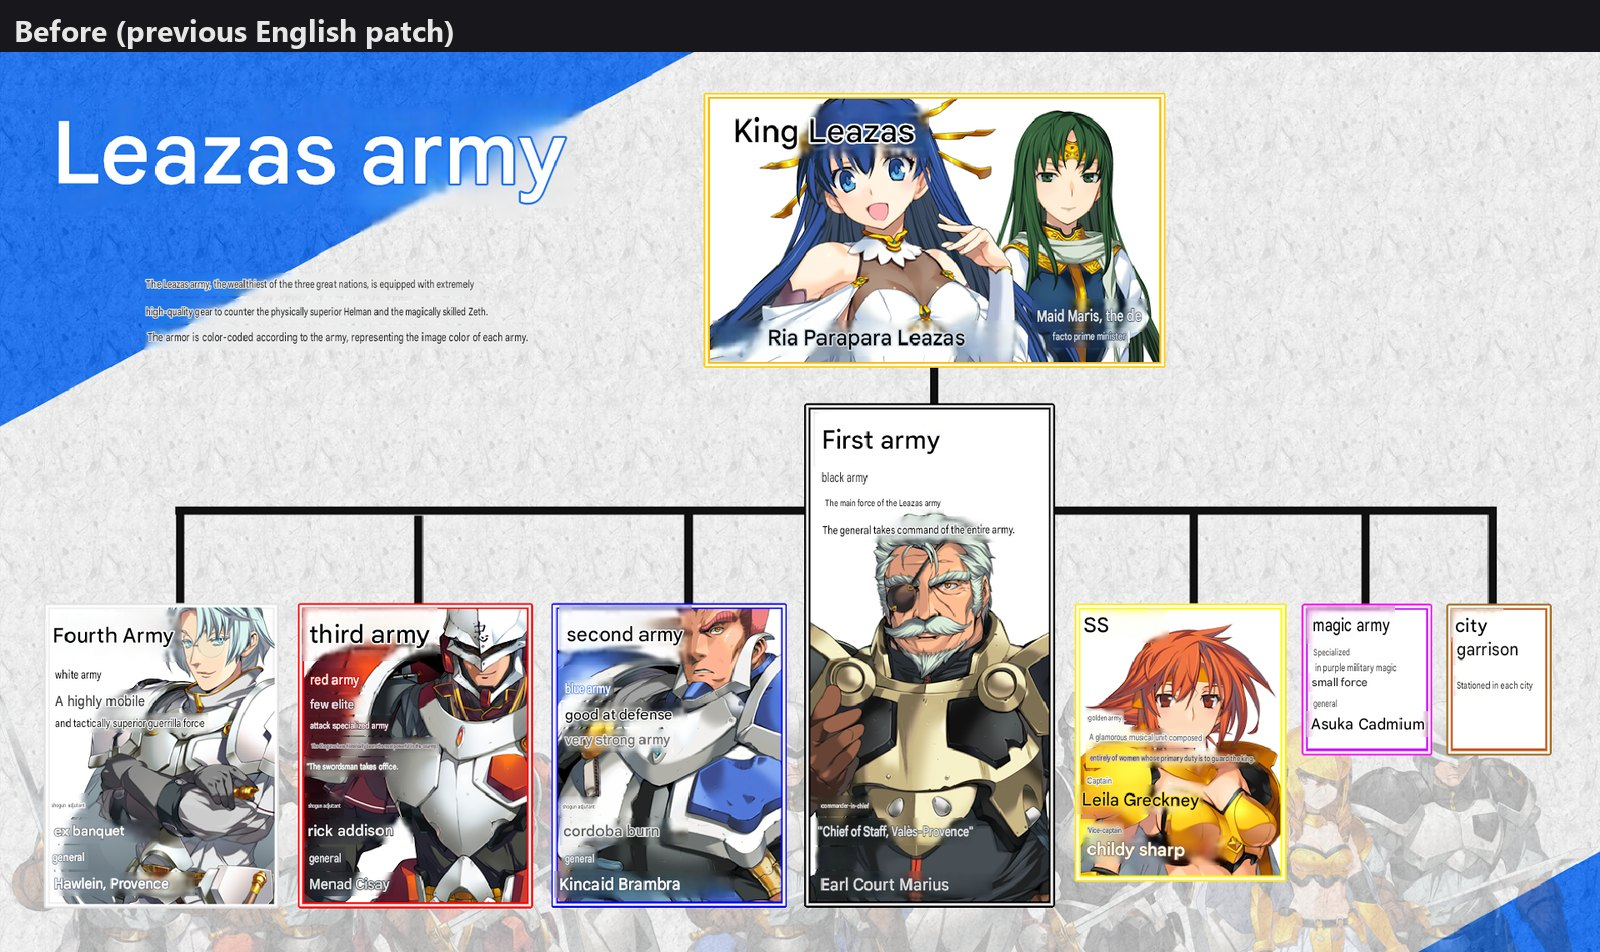
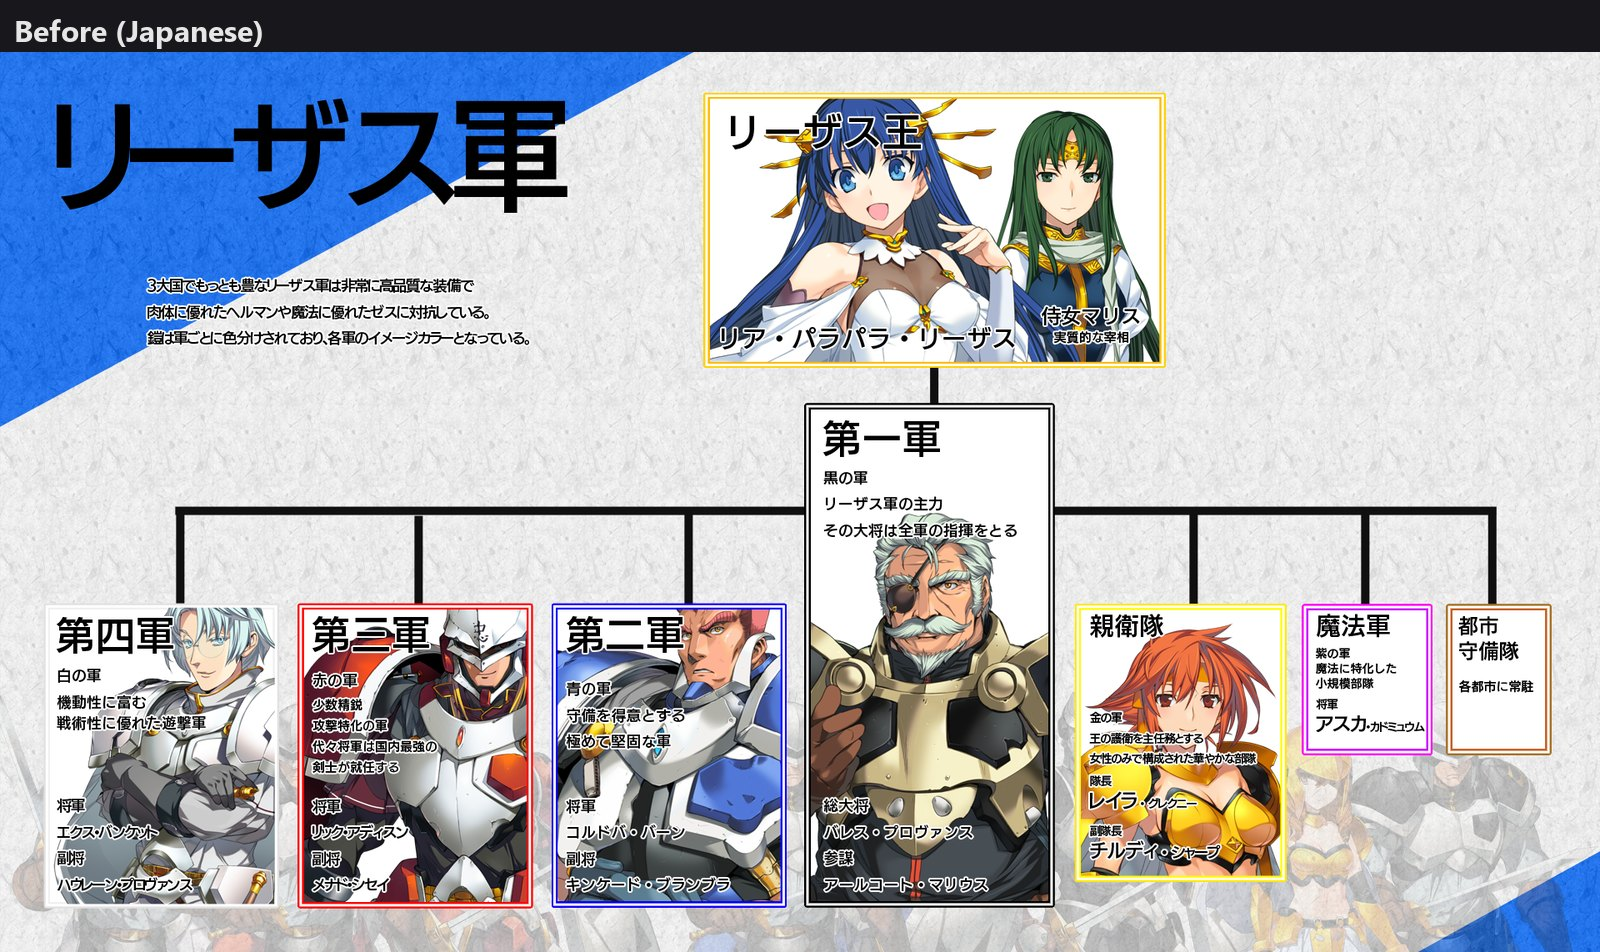
README: memo comparison shows the Japanese original as "before"
The previous patch's released images never included the Nunuhara memos (or 11
of the 12 help screens); the English draft used before was an unreleased file
from the old project's repository. Wording in the README and changelog
corrected to match.

diff --git a/README.md b/README.md
@@ -29,17 +29,16 @@ error-prone story lines.
 ![Map close-up, Japanese original](docs/images/map_closeup_before.jpg)
 ![Map close-up, translated](docs/images/map_closeup_after.jpg)
 
-**A Nunuhara memo (Leazas Army)** - the previous English version had wrong names ("Ria", "childy sharp"), General and
-Vice-General swapped on every card, and unreadable text; this one is retranslated from the Japanese:
+**A Nunuhara memo (Leazas Army)** - untranslated in the previous patch, like all 40 memos:
 
-![Leazas Army memo, previous English patch](docs/images/leazas_memo_before.jpg)
+![Leazas Army memo, Japanese original](docs/images/leazas_memo_before.jpg)
 ![Leazas Army memo, this patch](docs/images/leazas_memo_after.jpg)
 
 ## What it changes
 
 **Images (re-lettered from the Japanese originals)**
-- All 40 Nunuhara memos and the 12 help screens, retranslated from the Japanese (the earlier versions were OCR +
-  machine translation with many wrong names, swapped labels and unreadable text).
+- All 40 Nunuhara memos and 11 help screens, which were still in Japanese in the previous patch, translated from the
+  Japanese (with names and terms checked against the AliceSoft Wiki).
 - 69 story maps: the world map in the opening and its variants, all regional and Monster Realm maps, and the campaign
   map overlays with commander name tags.
 - About 50 more interface images: war-status maps (Monster Army), occupied-country stamps, Unit Bonus / Unit Rank,

diff --git a/CHANGELOG.md b/CHANGELOG.md
@@ -3,7 +3,7 @@
 ## v1.0.0 - 2026-11-23
 First release. Requires Rance X 1.04 with klesun's English patch 1.04.20.
 
-- Images: 40 Nunuhara memos and 12 help screens retranslated from the Japanese; 69 story maps (world, regional,
+- Images: 40 Nunuhara memos and 11 help screens (still Japanese in the previous patch) translated; 69 story maps (world, regional,
   Monster Realm, campaign overlays); ~50 interface images (war-status maps, occupied stamps, Unit Bonus/Rank,
   Interrupt Chance, EXP labels, ending credits, Synopsis Mode and collection screens).
 - Interface/data: ~1,400 remaining Japanese strings translated; CG gallery, BGM, place names, achievements and all
